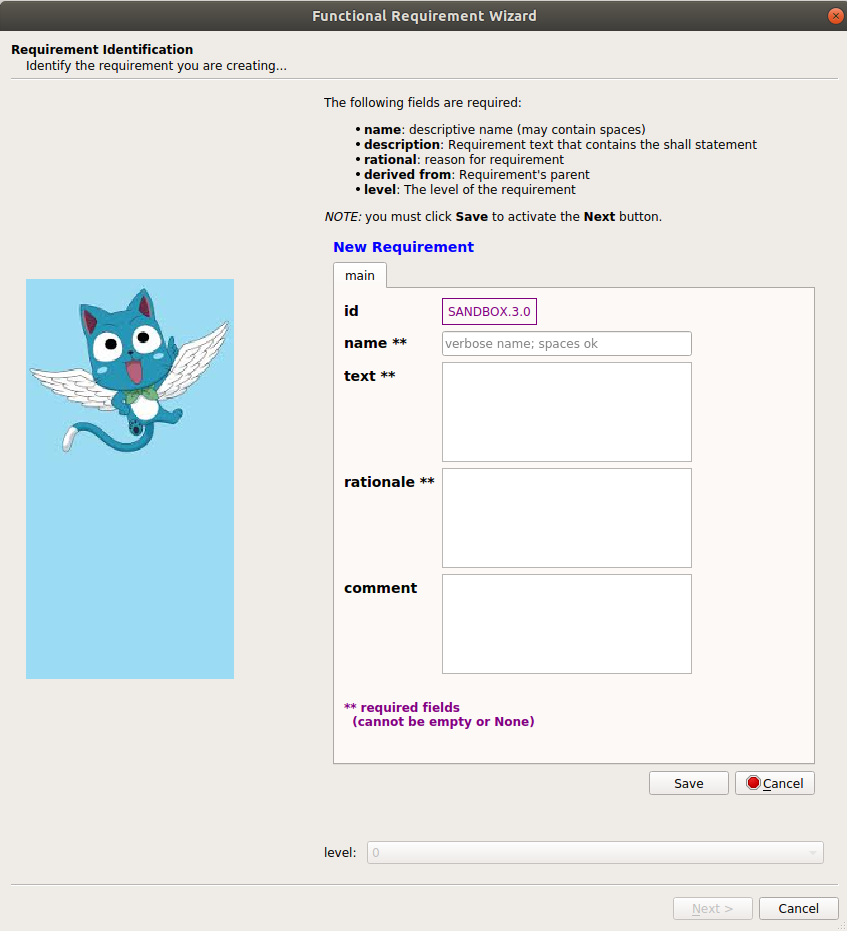
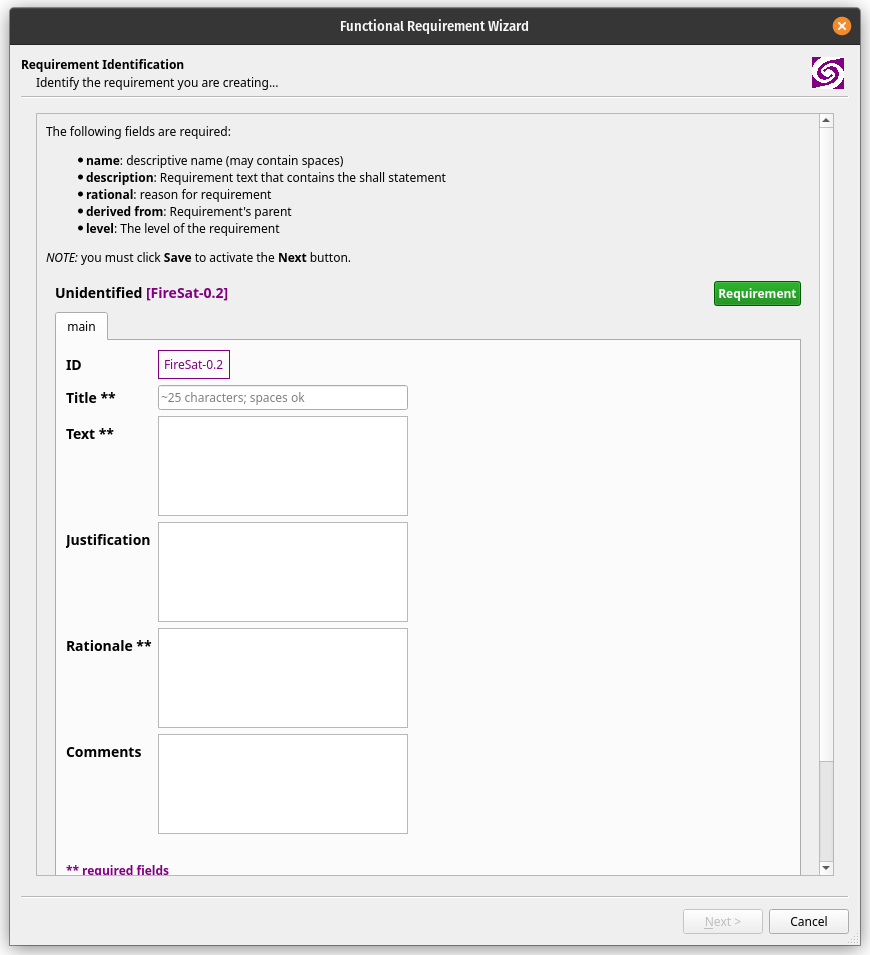
Fix more reference doc images and text.

diff --git a/pangalactic/node/docs/reference.html b/pangalactic/node/docs/reference.html
@@ -773,9 +773,10 @@ alt="Preferred Units Dialog" />
 alt="Help Button" />
 <figcaption aria-hidden="true">Help Button</figcaption>
 </figure>
-<p>Clicking the <em>Help button</em> (a tiny <em><a
-href="#tardis">TARDIS</a></em>) displays the
-<strong>Pangalaxian</strong> release version.</p>
+<p>Clicking the <em>Help button</em> (which has a tiny <em><a
+href="#tardis">TARDIS</a></em> icon) displays a menu with 3 items: “User
+Guide”, “Reference Manual”, and “About” (which displays the
+version).</p>
 <h2 id="project-selector">Project Selector</h2>
 <figure>
 <img src="images/project_selector.png" title="Project Selector"
@@ -813,25 +814,18 @@ menu)</figcaption>
 button, a “tooltip” is displayed, as shown below, <strong>Connect to the
 message bus</strong>:</p>
 <figure>
-<img src="images/network_login.png" title="Network Login"
-alt="Network Login" />
-<figcaption aria-hidden="true">Network Login</figcaption>
+<img src="images/network_login.png" title="Repository Service"
+alt="Repository Service" />
+<figcaption aria-hidden="true">Repository Service</figcaption>
 </figure>
-<p>The <strong>Pangalaxian</strong> client is not connected to the
-network until the user logs in, which is done by clicking the
-<strong>Network Login</strong> button, which displays a login
-dialog:</p>
-<figure>
-<img src="images/network_login_dialog.png" title="Network Login Dialog"
-alt="Network Login Dialog" />
-<figcaption aria-hidden="true">Network Login Dialog</figcaption>
-</figure>
-<p>The <strong>Network Login/Logout</strong> button is a toggle, so
-clicking on it while connected will disconnect
-<strong>Pangalaxian</strong> from the <strong>Message Bus</strong>. The
-<em>connected</em> / <em>disconnected</em> status is shown by the
-<em>network status indicator</em> in the lower right corner of the main
-window:</p>
+<p>The <strong>Pangalaxian</strong> client auto-connects to the
+Repository Service by default, but the user can un-check that
+“Auto-connect at startup” option if desired.</p>
+<p>The <strong>Repository Service</strong> button is a toggle, so
+clicking on it while connected will disconnect from the <strong>Message
+Bus</strong>. The <em>connected</em> / <em>disconnected</em> status is
+shown by the <em>network status indicator</em> in the lower right corner
+of the main window:</p>
 <figure>
 <img src="images/status_connected.png" title="Network Status: Connected"
 alt="Network Status: Connected" />
@@ -843,16 +837,14 @@ title="Network Status: Disconnected"
 alt="Network Status: Disconnected" />
 <figcaption aria-hidden="true">Network Status: Disconnected</figcaption>
 </figure>
-<p>Once the user logs in to the <strong>Message Bus</strong>, the
+<p>Once the user logs in to the <strong>Repository Service</strong>, the
 <strong>Pangalaxian</strong> client begins a programmed set of network
-interactions that synchronize its local database with the
-<strong>Pangalaxian</strong> repository. The initial interactions upon
-connection include:</p>
+interactions that synchronize its local database with the repository.
+The initial interactions upon connection include:</p>
 <ol type="1">
-<li>Get the set of <strong>Projects</strong> on which the user has been
-assigned <strong>Roles</strong>. (This may result in
-<strong>Projects</strong> being added or removed in the <strong>Project
-Selector</strong>.)</li>
+<li>Get the list of <strong>Projects</strong> to which the user has
+access. (The <strong>Project Names</strong> for any such projects will
+being added to the <strong>Project Selector</strong>.)</li>
 <li>Subscribe to the channels on which those <strong>Projects</strong>
 publish events, such as the addition of new <strong>Systems</strong> and
 <strong>Components</strong> to the <strong>Project</strong>.</li>

diff --git a/pangalactic/node/pangalaxian.py b/pangalactic/node/pangalaxian.py
@@ -5124,7 +5124,12 @@ class Main(QMainWindow):
             f'<html><h2>{app_name} {version}</h2></html>')
 
     def show_user_guide(self):
-        ug_path = os.path.join(orb.home, 'docs', 'user_guide.html')
+        app_name = config.get('app_name', '')
+        if app_name.startswith('CATTENS'):
+            ug_name = 'cattens_user_guide.html'
+        else:
+            ug_name = 'user_guide.html'
+        ug_path = os.path.join(orb.home, 'docs', ug_name)
         ug_url = f'file://{ug_path}'
         webbrowser.open_new(ug_url)
 

diff --git a/pangalactic/node/docs/reference.md b/pangalactic/node/docs/reference.md
@@ -470,8 +470,9 @@ sessions.
 
 ![Help Button](images/help_button.png "Help Button")
 
-Clicking the *Help button* (a tiny *[TARDIS](#tardis)*) displays the
-**Pangalaxian** release version.
+Clicking the *Help button* (which has a tiny *[TARDIS](#tardis)* icon) displays
+a menu with 3 items:  "User Guide", "Reference Manual", and "About" (which
+displays the version).
 
 ## Project Selector
 
@@ -498,16 +499,13 @@ itself is deleted.
 When the mouse hovers over the **Network Login/Logout** button, a "tooltip" is
 displayed, as shown below, **Connect to the message bus**:
 
-![Network Login](images/network_login.png "Network Login")
+![Repository Service](images/network_login.png "Repository Service")
 
-The **Pangalaxian** client is not connected to the network until the user logs in,
-which is done by clicking the **Network Login** button, which displays a login
-dialog:
+The **Pangalaxian** client auto-connects to the Repository Service by default,
+but the user can un-check that "Auto-connect at startup" option if desired.
 
-![Network Login Dialog](images/network_login_dialog.png "Network Login Dialog")
-
-The **Network Login/Logout** button is a toggle, so clicking on it while
-connected will disconnect **Pangalaxian** from the **Message Bus**.  The
+The **Repository Service** button is a toggle, so clicking on it while
+connected will disconnect from the **Message Bus**.  The
 *connected* / *disconnected* status is shown by the *network status indicator*
 in the lower right corner of the main window:
 
@@ -516,13 +514,14 @@ in the lower right corner of the main window:
 ![Network Status: Disconnected](images/status_disconnected.png "Network Status: Disconnected")
 
 
-Once the user logs in to the **Message Bus**, the **Pangalaxian** client begins a
-programmed set of network interactions that synchronize its local database with
-the **Pangalaxian** repository.  The initial interactions upon connection include:
+Once the user logs in to the **Repository Service**, the **Pangalaxian** client
+begins a programmed set of network interactions that synchronize its local
+database with the repository.  The initial interactions upon connection
+include:
 
-1.  Get the set of **Projects** on which the user has been assigned **Roles**.
-    (This may result in **Projects** being added or removed in the **Project
-    Selector**.)
+1.  Get the list of **Projects** to which the user has access.
+    (The **Project Names** for any such projects will being added to the
+    **Project Selector**.)
 2.  Subscribe to the channels on which those **Projects** publish events, such
     as the addition of new **Systems** and **Components** to the **Project**.
 3.  Synchronize the **Parameter Definitions** in the local database with those
